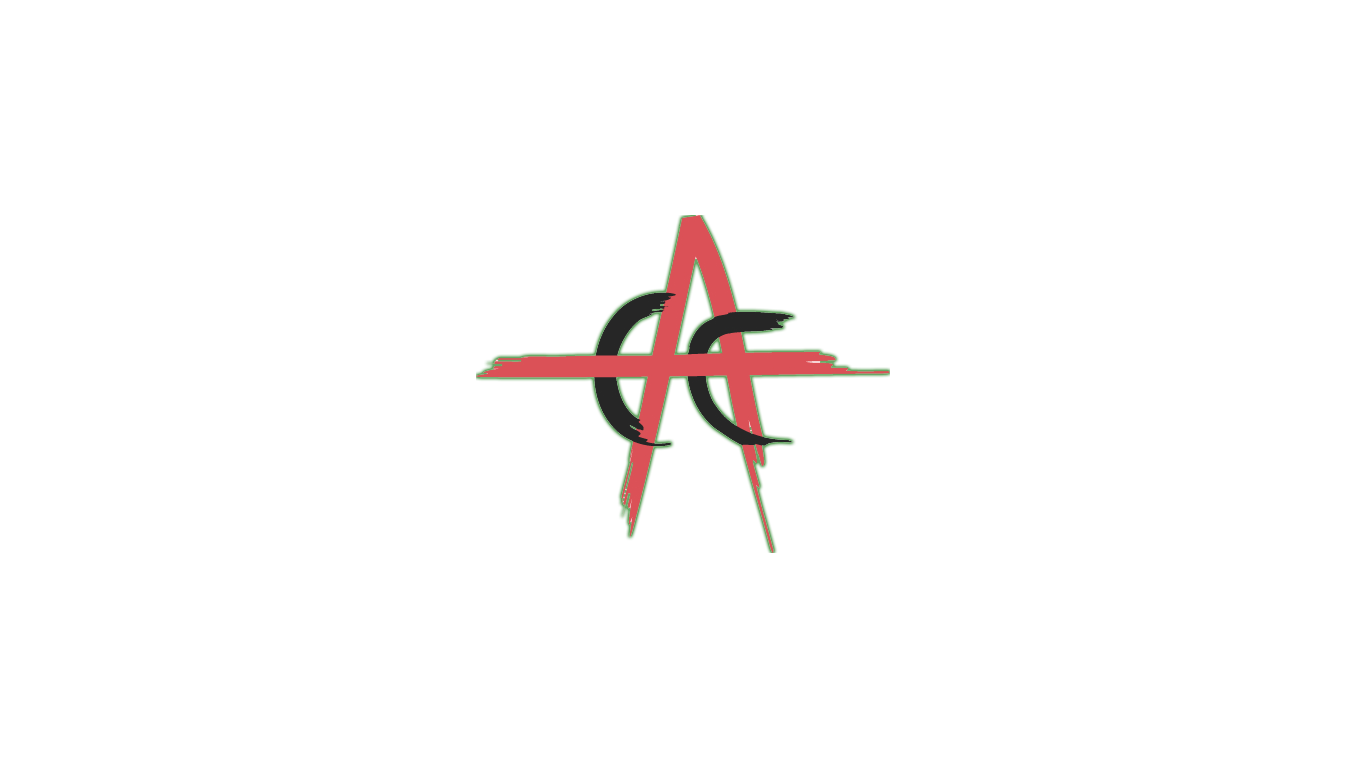
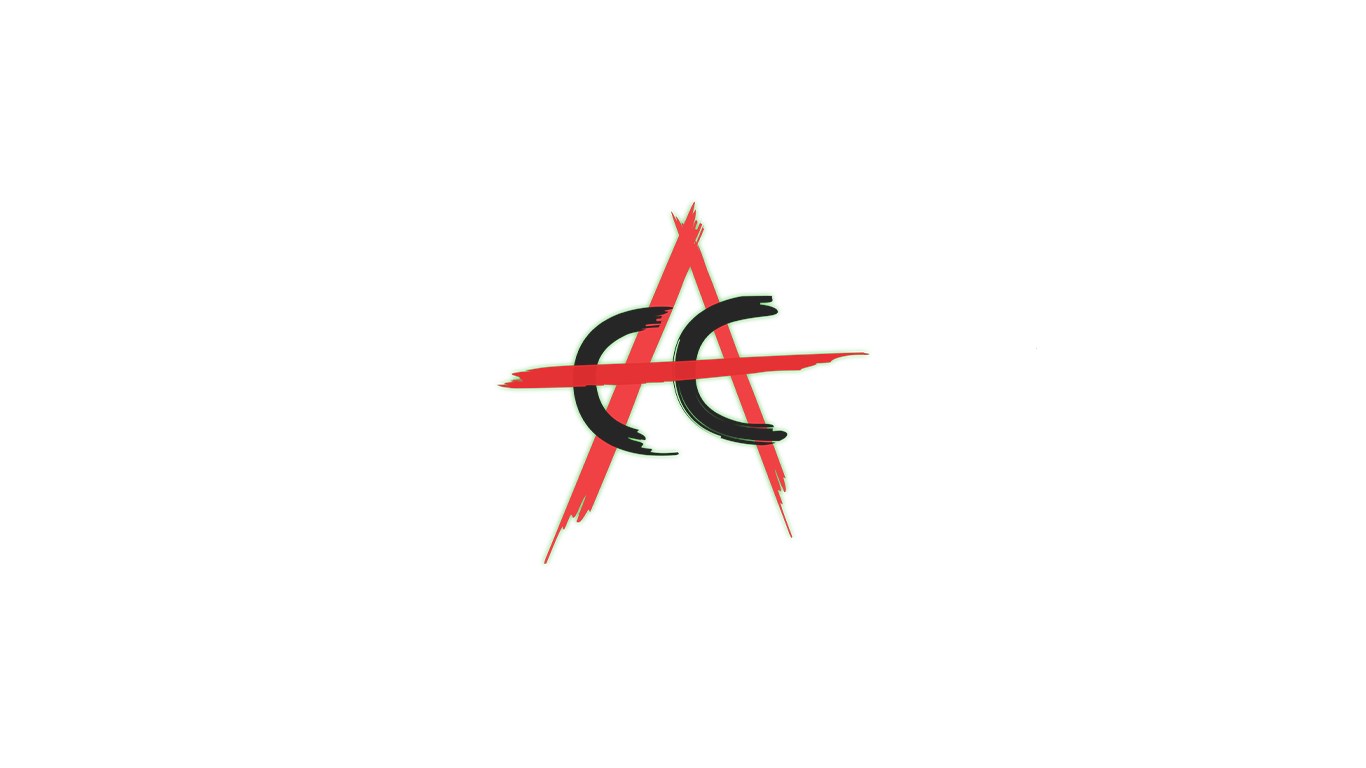
fixed some weird chrome/v8 errors and vainly used an updated image for cactheme

Changed region(s): [[0.3382, 0.25, 0.6457, 0.7188]]

diff --git a/public/javascripts/main.js b/public/javascripts/main.js
@@ -72,4 +72,5 @@ function countIntDigits(num) {
 function changePrompt(promptString) {
 	jQuery('#cliform .field').attr('data-prompt', promptString + ' ');
 	jQuery('#uwotcli-input').css('margin-left', (parseInt(jQuery('#cliform .field').attr('data-prompt').length) + 2) + 'ch');
+	return;
 }

diff --git a/public/css/style.css b/public/css/style.css
@@ -65,7 +65,7 @@ body #uwot .terminal {
   font-family: monospace;
   width: calc(100% - 2em);
   height: calc(100% - 2em);
-  min-height: 320px;
+  min-height: calc(320px - 2em);
   position: fixed;
   padding: 1em;
 }

diff --git a/public/scss/style.scss b/public/scss/style.scss
@@ -12,7 +12,7 @@ body {
 			font-family: monospace;
 			width: calc(100% - 2em);
 			height: calc(100% - 2em);
-			min-height: 320px;
+			min-height: calc(320px - 2em);
 			position: fixed;
 			padding: 1em;
 	
